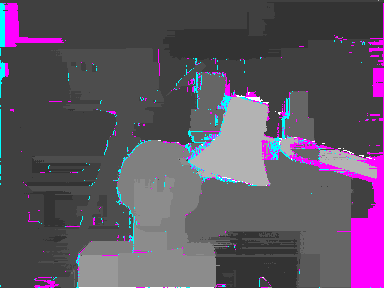
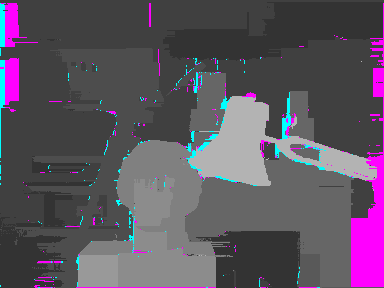
corrections for so & proper interpolation

diff --git a/ADCensus_CMake/libStereo/scanlineOptimization.cpp b/ADCensus_CMake/libStereo/scanlineOptimization.cpp
@@ -41,7 +41,8 @@ void scanlineOptimizationParameters(int x1, int x2, int y1, int y2,	int d,
     if(a!=0) d=-d;
 
     // compute color differences between pixels in the two pictures
-	int d1 = colorDiff(p.im[a].pixel(x1,y1), p.im[a].pixel(x2,y2), p.wh) ,d2 = 0;
+	int d1 = colorDiff(p.im[a].pixel(x1,y1), p.im[a].pixel(x2,y2), p.wh),
+		d2 = p.tauSO + 1;
     if(0<=x1+d && x1+d<p.w && 0<=x2+d && x2+d<p.w)
        d2 = colorDiff(p.im[b].pixel(x1+d,y1), p.im[b].pixel(x2+d,y2), p.wh);
 
@@ -73,31 +74,33 @@ void optim(const float* costs, float* soCosts,
 	const int w=params.w, h=params.h;
 	const int dMin = params.dMin, dMax = params.dMax;
 
-    float minCost = soCosts[0*h*w+x2*h+y2];
-    // find minimal previous cost for a given column index
-    for(int d=dMin+1; d<=dMax; ++d)
-        if(minCost > soCosts[(d-dMin)*h*w+x2*h+y2])
-            minCost = soCosts[(d-dMin)*h*w+x2*h+y2];
-	float minkCr = minCost;
+    float minSoCost = soCosts[0*h*w+x2*h+y2];
+    // find minimal previous so cost for a given column index
+    for(int d=1; d<=dMax-dMin; ++d){
+        if(minSoCost > soCosts[d*h*w+x2*h+y2]){
+            minSoCost = soCosts[d*h*w+x2*h+y2];
+		}
+	}
+	float minkCr = minSoCost;
 
-    for(int d=dMin; d<=dMax; ++d) {
+    for(int d=0; d<=dMax-dMin; ++d) {
         // C1(p,d) - min_k(Cr(p-r,k))
-        float soCost = costs[(d-dMin)*h*w+x1*h+y1]-minkCr;
+        float soCost = costs[d*h*w+x1*h+y1]-minkCr;
 
         // compute P1 and P2 parameters for better scanline optimization
         float P1, P2;
-        scanlineOptimizationParameters(x1, x2, y1, y2, d, P1, P2, params);
+        scanlineOptimizationParameters(x1, x2, y1, y2, d+dMin, P1, P2, params);
 
         // compute min(Cr(p-r,d), Cr(p-r, d+-1) + P1, min_k(Cr(p-r,k)+P2)) 
-        minCost += P2;
-        if(minCost > soCosts[(d-dMin)*h*w+x2*h+y2])
-            minCost = soCosts[(d-dMin)*h*w+x2*h+y2];
-        if(d != params.dMin && minCost > soCosts[(d-dMin-1)*h*w+x2*h+y2] + P1)
-            minCost = soCosts[(d-dMin-1)*h*w+x2*h+y2] + P1;
-        if(d != params.dMax && minCost > soCosts[(d-dMin+1)*h*w+x2*h+y2] + P1)
-            minCost = soCosts[(d-dMin+1)*h*w+x2*h+y2] + P1;
+        minSoCost = minkCr + P2;
+        if(minSoCost > soCosts[d*h*w+x2*h+y2])
+            minSoCost = soCosts[d*h*w+x2*h+y2];
+        if(d != 0 && minSoCost > soCosts[(d-1)*h*w+x2*h+y2] + P1)
+            minSoCost = soCosts[(d-1)*h*w+x2*h+y2] + P1;
+        if(d != dMax - dMin && minSoCost > soCosts[(d+1)*h*w+x2*h+y2] + P1)
+            minSoCost = soCosts[(d+1)*h*w+x2*h+y2] + P1;
 
-        soCosts[(d-dMin)*h*w+x1*h+y1] = soCost + minCost;
+        soCosts[d*h*w+x1*h+y1] = soCost + minSoCost;
     }
 }
 
@@ -106,8 +109,9 @@ void optim(const float* costs, float* soCosts,
 void scanlineOptimizationV(const float* costs, float* soCosts, 
 						   int y1, int y2, const PARAMETERS& params)
 {
-	for(int x=0; x<params.w; ++x)
+	for(int x=0; x<params.w; ++x){
         optim(costs, soCosts, x, x, y1, y2, params);
+	}
 }
 
 /// update the scanline optimization cost when the direction is horizontal
@@ -115,8 +119,9 @@ void scanlineOptimizationV(const float* costs, float* soCosts,
 void scanlineOptimizationH(const float* costs, float* soCosts,
 						   int x1, int x2, const PARAMETERS& params)
 {
-	for(int y=0; y<params.h; ++y)
+	for(int y=0; y<params.h; ++y){
         optim(costs, soCosts, x1, x2, y, y, params);
+	}
 }
 
 /// compute the so cost by computing a vertical so in the "way" direction with first line of index y0
@@ -129,19 +134,25 @@ void scanlineOptimizationComputationV(const float* costs, int y0, int way,
 	float *tempor = new float[w*h*(dMax-dMin+1)];
 
 	// initialize vertical so cost
-	for(int x=0; x<w; ++x)
-		for(int d=dMin; d<=dMax; ++d)
-			tempor[(d-dMin)*h*w+x*h+y0] = costs[(d-dMin)*h*w+x*h+y0];
+	for(int d=0; d<=dMax-dMin; ++d){
+		for(int x=0; x<w; ++x){
+			tempor[d*h*w+x*h+y0] = costs[d*h*w+x*h+y0];
+		}
+	}
 
 	// computes vertical so cost
-	for(int y=y0+way; 0<=y && y<h; y+=way)
+	for(int y=y0+way; 0<=y && y<h; y+=way){
 		scanlineOptimizationV(costs, tempor, y, y-way, params);
+	}
 
 	// add so cost into costSO table
-	for(int x=0; x<w; ++x)
-		for(int y=0; y<h; ++y)
-			for(int d=dMin; d<=dMax; ++d)
-				costSO[(d-dMin)*h*w+x*h+y] += tempor[(d-dMin)*h*w+x*h+y];
+	for(int d=0; d<=dMax-dMin; ++d){
+		for(int x=0; x<w; ++x){
+			for(int y=0; y<h; ++y){
+				costSO[d*h*w+x*h+y] += tempor[d*h*w+x*h+y];
+			}
+		}
+	}
     delete [] tempor;
 }
 
@@ -155,9 +166,11 @@ void scanlineOptimizationComputationH(const float* costs, int x0, int way,
 	float *tempor = new float[w*h*(dMax-dMin+1)];
 
 	// initialize horizontal so cost
-	for(int y=0; y<h; ++y)
-		for(int d=dMin; d<=dMax; ++d)
-			tempor[(d-dMin)*h*w+x0*h+y] = costs[(d-dMin)*h*w+x0*h+y];
+	for(int d=0; d<=dMax-dMin; ++d){
+		for(int y=0; y<h; ++y){
+			tempor[d*h*w+x0*h+y] = costs[d*h*w+x0*h+y];
+		}
+	}
 
 	// computes horizontal so cost
 	for(int x=x0+way; 0<=x && x<w; x+=way){
@@ -165,10 +178,13 @@ void scanlineOptimizationComputationH(const float* costs, int x0, int way,
 	}
 
 	// add so cost into costSO table
-	for(int x=0; x<w; ++x)
-		for(int y=0; y<h; ++y)
-			for(int d=dMin; d<=dMax; ++d)
-				costSO[(d-dMin)*h*w+x*h+y] += tempor[(d-dMin)*h*w+x*h+y];
+	for(int d=0; d<=dMax-dMin; ++d){
+		for(int x=0; x<w; ++x){
+			for(int y=0; y<h; ++y){
+				costSO[d*h*w+x*h+y] += tempor[d*h*w+x*h+y];
+			}
+		}
+	}
     delete [] tempor;
 }
 

diff --git a/ADCensus_CMake/libStereo/occlusion.cpp b/ADCensus_CMake/libStereo/occlusion.cpp
@@ -17,6 +17,7 @@
  */
 
 #include "occlusion.h"
+#include "patch.cpp"
 #include <algorithm>
 #include <numeric>
 #include <vector>
@@ -93,7 +94,10 @@ void detect_outliers(LWImage<int>& disparityLeft,
         }
 }
 
-void regionVoting(LWImage<int>& disp_outliers, const PARAMETERS& p){
+void regionVoting(LWImage<int>& disp, const PARAMETERS& p){
+	// temporary disparity map that avoids too fast correction
+	LWImage<int>& dispTemp = alloc_image<int>(disp.w,disp.h);
+
 	// histogram for voting
 	float* Hp = new float[p.dMax - p.dMin + 1];
 	// fill the histogram with 0
@@ -104,7 +108,8 @@ void regionVoting(LWImage<int>& disp_outliers, const PARAMETERS& p){
 	for(int x=0; x<p.w; ++x){
 		for(int y=0; y<p.h; ++y){
 			// when the pixel is not an outlier, continue
-			if(*disp_outliers.pixel(x,y) >= p.dMin){
+			if(*disp.pixel(x,y) >= p.dMin){
+				*dispTemp.pixel(x,y) = *disp.pixel(x,y);
 				continue;
 			}
 			int leftBorder = -p.leftBorders[x*p.h+y];
@@ -115,20 +120,21 @@ void regionVoting(LWImage<int>& disp_outliers, const PARAMETERS& p){
 				int downBorder = p.downBorders[(x+xx)*p.h+y];
 				for(int yy = upBorder; yy <= downBorder; ++yy){
 					// if the pixel is an outlier, there is no vote to take into account
-					if(*disp_outliers.pixel(x+xx, y+yy) < p.dMin){
+					if(*disp.pixel(x+xx, y+yy) < p.dMin){
 						continue;
 					}
 					// increase the number of votes
 					++ nVote;
 					// update the histogram
-					++ Hp[*disp_outliers.pixel(x+xx, y+yy) - p.dMin];
+					++ Hp[*disp.pixel(x+xx, y+yy) - p.dMin];
 				}
 			}
 			// is the number of vote sufficient
 			if(nVote <= p.tauS){
+				*dispTemp.pixel(x,y) = *disp.pixel(x,y);
 				continue;
 			}
-			int disparity = *disp_outliers.pixel(x,y);
+			int disparity = *disp.pixel(x,y);
 			float voteRatio, voteRatioMax = 0.f;
 			for(int d = p.dMin; d <= p.dMax; ++d){
 				voteRatio = Hp[d-p.dMin]/nVote;
@@ -138,9 +144,75 @@ void regionVoting(LWImage<int>& disp_outliers, const PARAMETERS& p){
 				}
 				Hp[d-p.dMin] = 0;
 			}
-			*disp_outliers.pixel(x,y) = disparity;
+			*dispTemp.pixel(x,y) = disparity;
 		}
 	}
+	std::copy(dispTemp.data, dispTemp.data+dispTemp.w*dispTemp.h, disp.data);
+	free(dispTemp.data);
+}
+
+void properInterpolation(LWImage<int>& disp, const PARAMETERS& p){
+	// temporary disparity map that avoids too fast correction
+	LWImage<int>& dispTemp = alloc_image<int>(disp.w,disp.h);
+	// look on the 16 different directions
+	int directionX[] = {0, 2, 2, 2, 0, -2, -2, -2, 1, 2, 2, 1, -1, -2, -2, -1} ;
+	int directionY[] = {2, 2, 0, -2, -2, -2, 0, 2, 2, 1, -1, -2, -2, -1, 1, 2} ;
+	// loop on the whole picture
+	for(int x=0; x<p.w; ++x){
+		for(int y=0; y<p.h; ++y){
+			// when the pixel is not an outlier, continue
+			if(*disp.pixel(x,y) >= p.dMin){
+				*dispTemp.pixel(x,y) = *disp.pixel(x,y);
+				continue;
+			}
+			std::vector<int> disparities(16, *disp.pixel(x,y));
+			std::vector<float> cost(16, -1);
+			for(int d=0; d<16; ++d){
+				int X=x, Y=y;
+				for(int step=0; step < 20; ++step){
+					// go one step further
+					if(step%2 == 0){
+						X += directionX[d]/2;
+						Y += directionY[d]/2;
+					}
+					else{
+						X += directionX[d] - directionX[d]/2;
+						Y += directionY[d] - directionY[d]/2;
+					}
+					if(X < 0 || X >= p.w || Y < 0 || Y >= p.h){
+						break;
+					}
+					if(*disp.pixel(X,Y) >= p.dMin){
+						disparities[d] = *disp.pixel(X,Y);
+						cost[d] = ad(x, y, X, Y, p);
+						break;
+					}
+				}
+			}
+			if(*disp.pixel(x,y) == DISP_OCCLUSION){
+				int disparity = disparities[0];
+				for(int d=1; d<16; ++d){
+					if(disparity > disparities[d]){
+						disparity = disparities[d];
+					}
+				}
+				*dispTemp.pixel(x,y) = disparity;
+			}
+			else{
+				int disparity = disparities[0];
+				float minCost = cost[0];
+				for(int d=1; d<16; ++d){
+					if(minCost == -1 || (cost[d] < disparities[d] && cost[d] != -1)){
+						disparity = disparities[d];
+						minCost = cost[d];
+					}
+				}
+				*dispTemp.pixel(x,y) = disparity;
+			}
+		}
+	}
+	std::copy(dispTemp.data, dispTemp.data+dispTemp.w*dispTemp.h, disp.data);
+	free(dispTemp.data);
 }
 
 /// Square function

diff --git a/ADCensus_CMake/stereoDense/stereoDense.cpp b/ADCensus_CMake/stereoDense/stereoDense.cpp
@@ -16,6 +16,7 @@ static const char* OUTFILEL2 = "disparity_left_02_cost_aggregated.png";
 static const char* OUTFILEL3 = "disparity_left_03_scanline_optimization.png";
 static const char* OUTFILEL4 = "disparity_left_04_outliers.png";
 static const char* OUTFILEL5 = "disparity_left_05_region_voting.png";
+static const char* OUTFILEL6 = "disparity_left_06_proper_interpolation.png";
 
 static const char* OUTFILER1 = "disparity_right_01_cost_only.png";
 static const char* OUTFILER2 = "disparity_right_02_cost_aggregated.png";
@@ -182,7 +183,11 @@ static void disparity(LWImage<float> im1, LWImage<float> im2,
 	}
 
 	// proper interpolation
-
+	std::cout << "Phase 3: proper interpolation" << std::endl; 
+	properInterpolation(disp1, params);
+	if(! save_disparity(OUTFILEL6, disp1, dMin,dMax, grayMin, grayMax)) {
+		std::cerr << "Error writing file " << OUTFILEL5 << std::endl;
+	}
 	// depth discontinuity adjustment
 
 	// sub-pixel enhancement
@@ -196,7 +201,6 @@ int main (int argc, char** argv)
     int grayMin=255, grayMax=0;
     char sense='r'; // Camera motion direction: 'r'=to-right, 'l'=to-left
     CmdLine cmd;
-
     ParamOcclusion paramOcc; // Parameters for filling occlusions
     cmd.add( make_option('o',paramOcc.tol_disp) ); // Detect occlusion
     cmd.add( make_option('O',sense) ); // Fill occlusion

diff --git a/ADCensus_CMake/libStereo/occlusion.h b/ADCensus_CMake/libStereo/occlusion.h
@@ -51,6 +51,7 @@ void detect_outliers(LWImage<int>& disparityLeft,
                       int dOcclusion, int dMismatch, int tolDisp,
 					  int dMin, int dMax);
 void regionVoting(LWImage<int>& disp_outliers, const PARAMETERS& p);
+void properInterpolation(LWImage<int>& disp_outliers, const PARAMETERS& p);
 void fill_occlusion(const LWImage<int>& dispDense,
                     const LWImage<float>& guidance,
                     LWImage<int>& disparity, int dispMin, int dispMax,

diff --git a/ADCensus_CMake/stereoDense/parameters.h b/ADCensus_CMake/stereoDense/parameters.h
@@ -100,7 +100,7 @@ class PARAMETERS{
 		//default values for region voting parameters
 		nVote = 5;
 		tauS = 20;
-		tauH = 0.4;
+		tauH = 0.4f;
 	}
     ~PARAMETERS() {
         delete [] upBorders;
